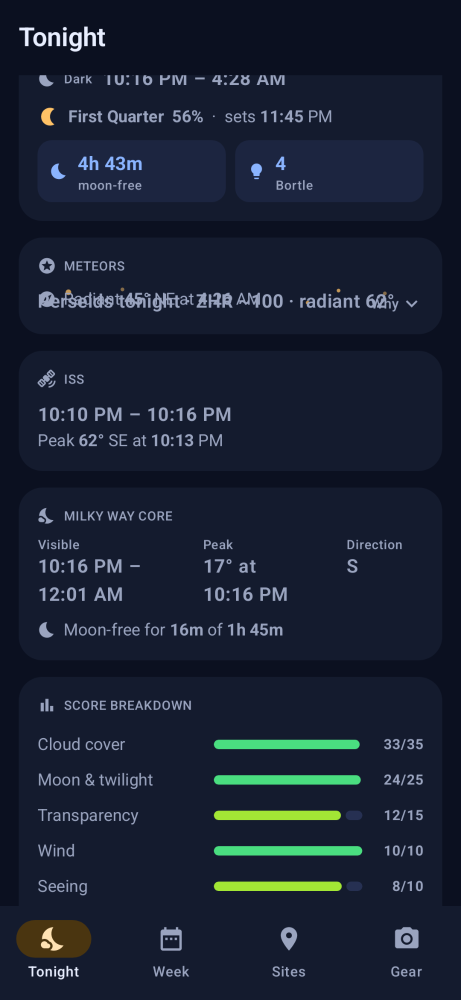
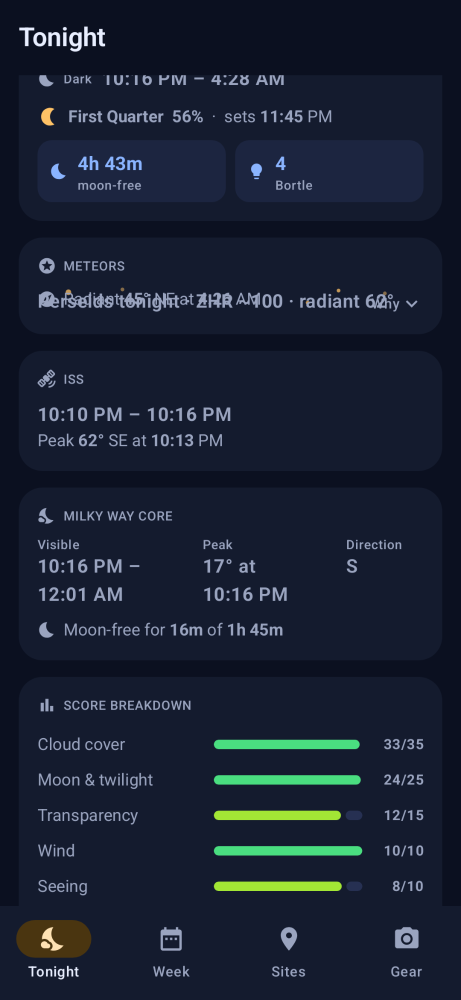
Re-record phone Paparazzi goldens for layoutlib 15.2.3.
Paparazzi 2.0.0-alpha02 renders text differently from the 1.3.5 goldens. The new images match the GitHub Actions renders, and the README frames are those same files. Watch goldens stay as they are.

diff --git a/ROADMAP.md b/ROADMAP.md
@@ -35,7 +35,7 @@ MVP is the on-device night score, a 7-night outlook, site book with GPS / osmdro
 - **Leaving the atlas keeps the previous class.** `SiteForm` writes a looked-up Bortle only when the grid returns non-null, so a MAP class can stick after a move into a 0-byte or out-of-bbox cell. The slider also displays `draft.bortle ?: 5`, so a null class looks like Bortle 5 before it is stored (`Site.effectiveBortle` is 5).
 - **Bortle I/O.** `StreamingGridBortleLookup` opens the gzip asset, reads the 40-byte header, and skips to one byte on every call. Worst case on the North America grid is about a second. `AppViewModel.lookupBortle` uses `Dispatchers.IO`. Grids are not cached in memory on purpose.
 - **Lint warnings are not gated.** No `lint.xml`, baseline, or `warningsAsErrors` in `app/build.gradle.kts`. `:app:lintDebug` can be green with warnings left over; the repo has no lint report. Suppressions in code: `@Suppress("MissingPermission")` in `DigestNotifier.post`, `@SuppressLint("MissingPermission")` in `LocationHelper`. Phone UI copy is in `app/src/main/res/values/strings.xml`; notification copy is in `work/src/main/res/values/strings.xml`. Score, digest, and widget sentences that are built in `:core-score` stay there.
-- **Dependencies stay on the late-2024 catalog** in `gradle/libs.versions.toml` except AGP 8.10.1, Kotlin 2.1.21, and Paparazzi 2.0.0-alpha02, which are what compile and snapshot SDK 36 (Compose BOM 2024.12.01, OkHttp 4.12.0, osmdroid 6.1.20, Work 2.10.0, DataStore 1.1.1). Wrapper is Gradle 8.11.1. README asks for JDK 21; module bytecode target is 17. The phone `versionCode` is `nightbrief.versionCode` in `gradle.properties`.
+- **Dependencies stay on the late-2024 catalog** in `gradle/libs.versions.toml` except AGP 8.10.1, Kotlin 2.1.21, and Paparazzi 2.0.0-alpha02, which are what compile and snapshot SDK 36 (Compose BOM 2024.12.01, OkHttp 4.12.0, osmdroid 6.1.20, Work 2.10.0, DataStore 1.1.1). Phone goldens were re-recorded for layoutlib 15.2.3; the watch still compiles against API 35 and keeps its previous goldens. Wrapper is Gradle 8.11.1. README asks for JDK 21; module bytecode target is 17. The phone `versionCode` is `nightbrief.versionCode` in `gradle.properties`.
 - **CI** is `.github/workflows/ci.yml`. It runs `assembleDebug`, `lintDebug`, `test`, and `verifyPaparazziDebug` on JDK 21 with `NIGHTBRIEF_SKIP_LIVE_TESTS=1`, so `DigestWorkerTest.onboardedSitePostsTonightDigest` is skipped. That test still runs locally and calls Open-Meteo, 7Timer, and SWPC.
 - **One alarm slot.** `DigestScheduler` uses a single `PendingIntent` (request code 1001). Multiple wall-clock times work only because `DigestAlarmReceiver` re-arms the next instant after it fires.
 - **Notification ids are per-site slots.** `AppState.notificationSlots` assigns a positive int that is never reused, including after a site is deleted (`notificationSlotNext`). `DigestNotifier.digestNotificationId` is `10_000 + slot` and `bigNightNotificationId` is `30_000 + slot`, so two sites cannot replace each other's digest or Big Night notification. The old `hashCode and 0x0FFF` bucket is gone.
